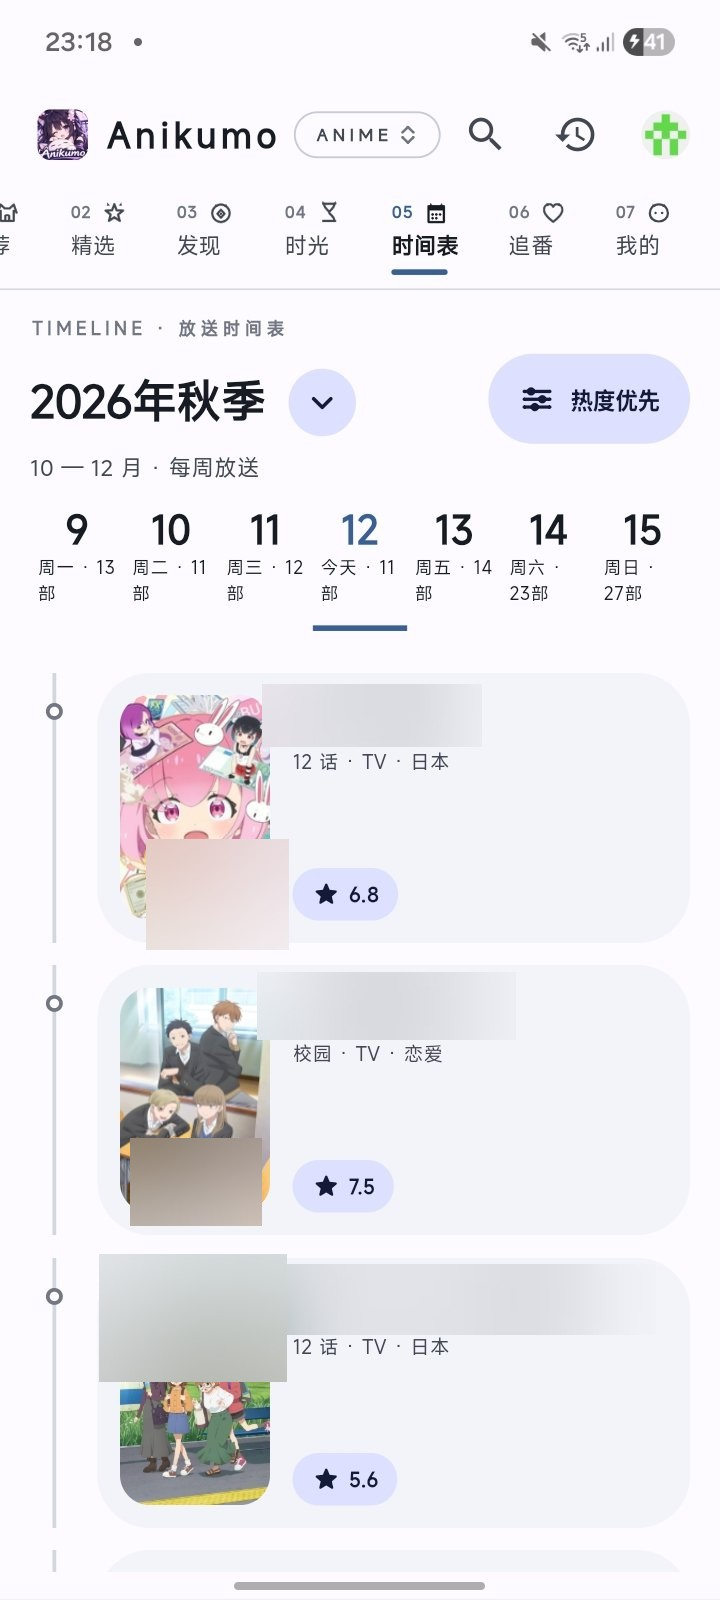
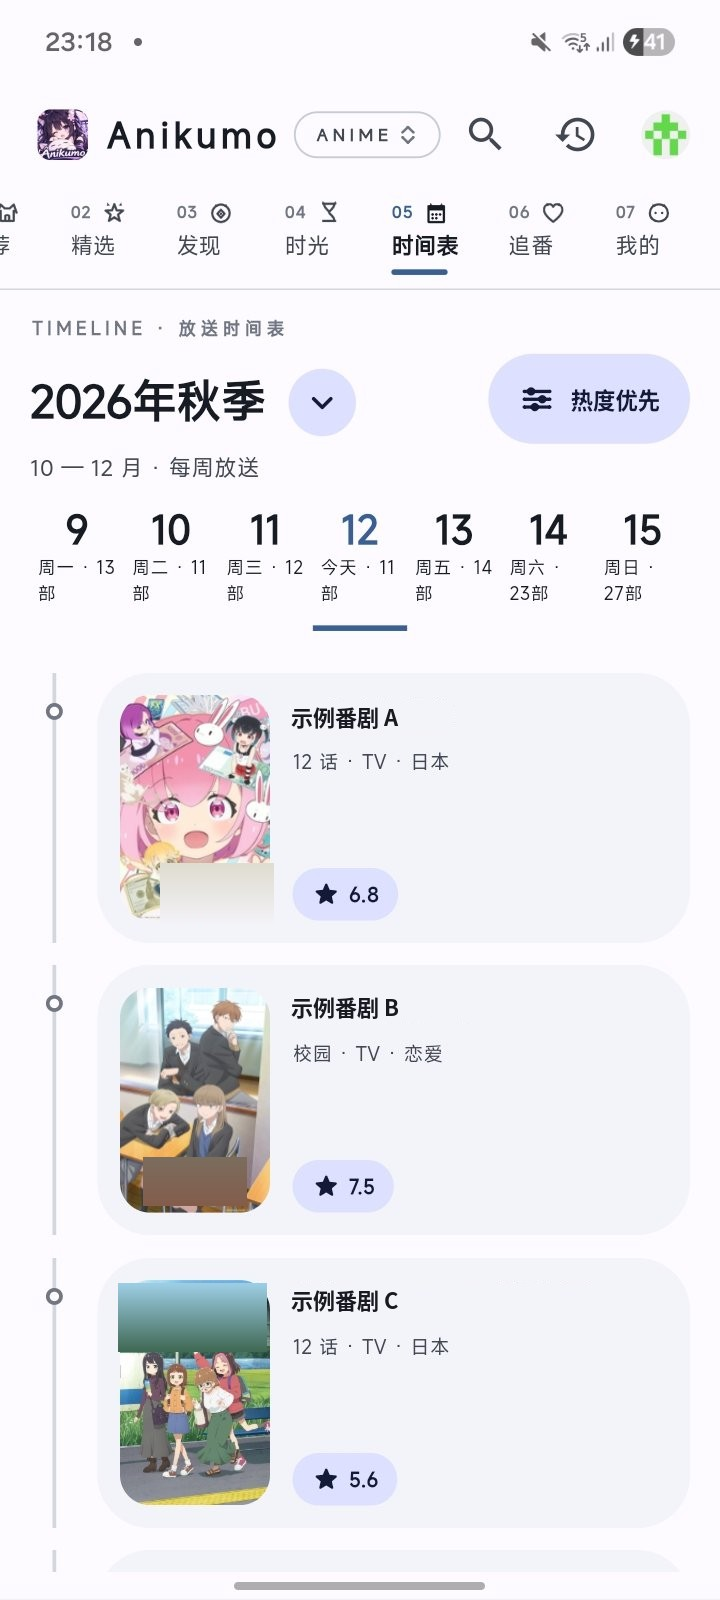
界面预览改演示风：作品名替换示例名称、海报标题示例化（不用模糊）

diff --git a/README.md b/README.md
@@ -97,7 +97,7 @@ Anikumo 是一款**使用 Kazumi 的整体框架制作的动漫软件**，漫画
 
 ## 界面预览
 
-> 截图为 1.0.3 真机界面，图中的作品名（剧名 / 片名）与来源、接口名已做模糊处理。
+> 截图为 1.0.3 真机界面，图中的作品名（剧名 / 片名）已替换为示例名称，海报与封面上的标题、来源与接口名已做示例化处理。
 
 <table>
   <tr>
